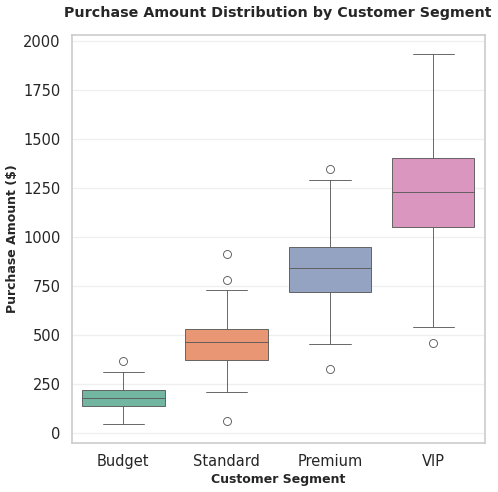
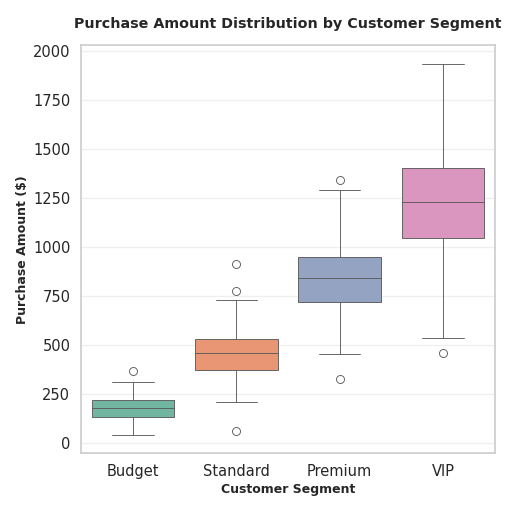
q5 issue solve

diff --git a/q5/chart.py b/q5/chart.py
@@ -61,7 +61,8 @@ plt.xticks(rotation=0)
 plt.tight_layout()
 
 # Save chart with exactly 512x512 pixels
-plt.savefig('chart.png', dpi=64, bbox_inches='tight')
+# Using dpi=64 with figsize=(8,8) gives exactly 512x512
+plt.savefig('chart.png', dpi=64)
 
 print("Chart generated successfully!")
 print(f"\nDataset Summary:")
